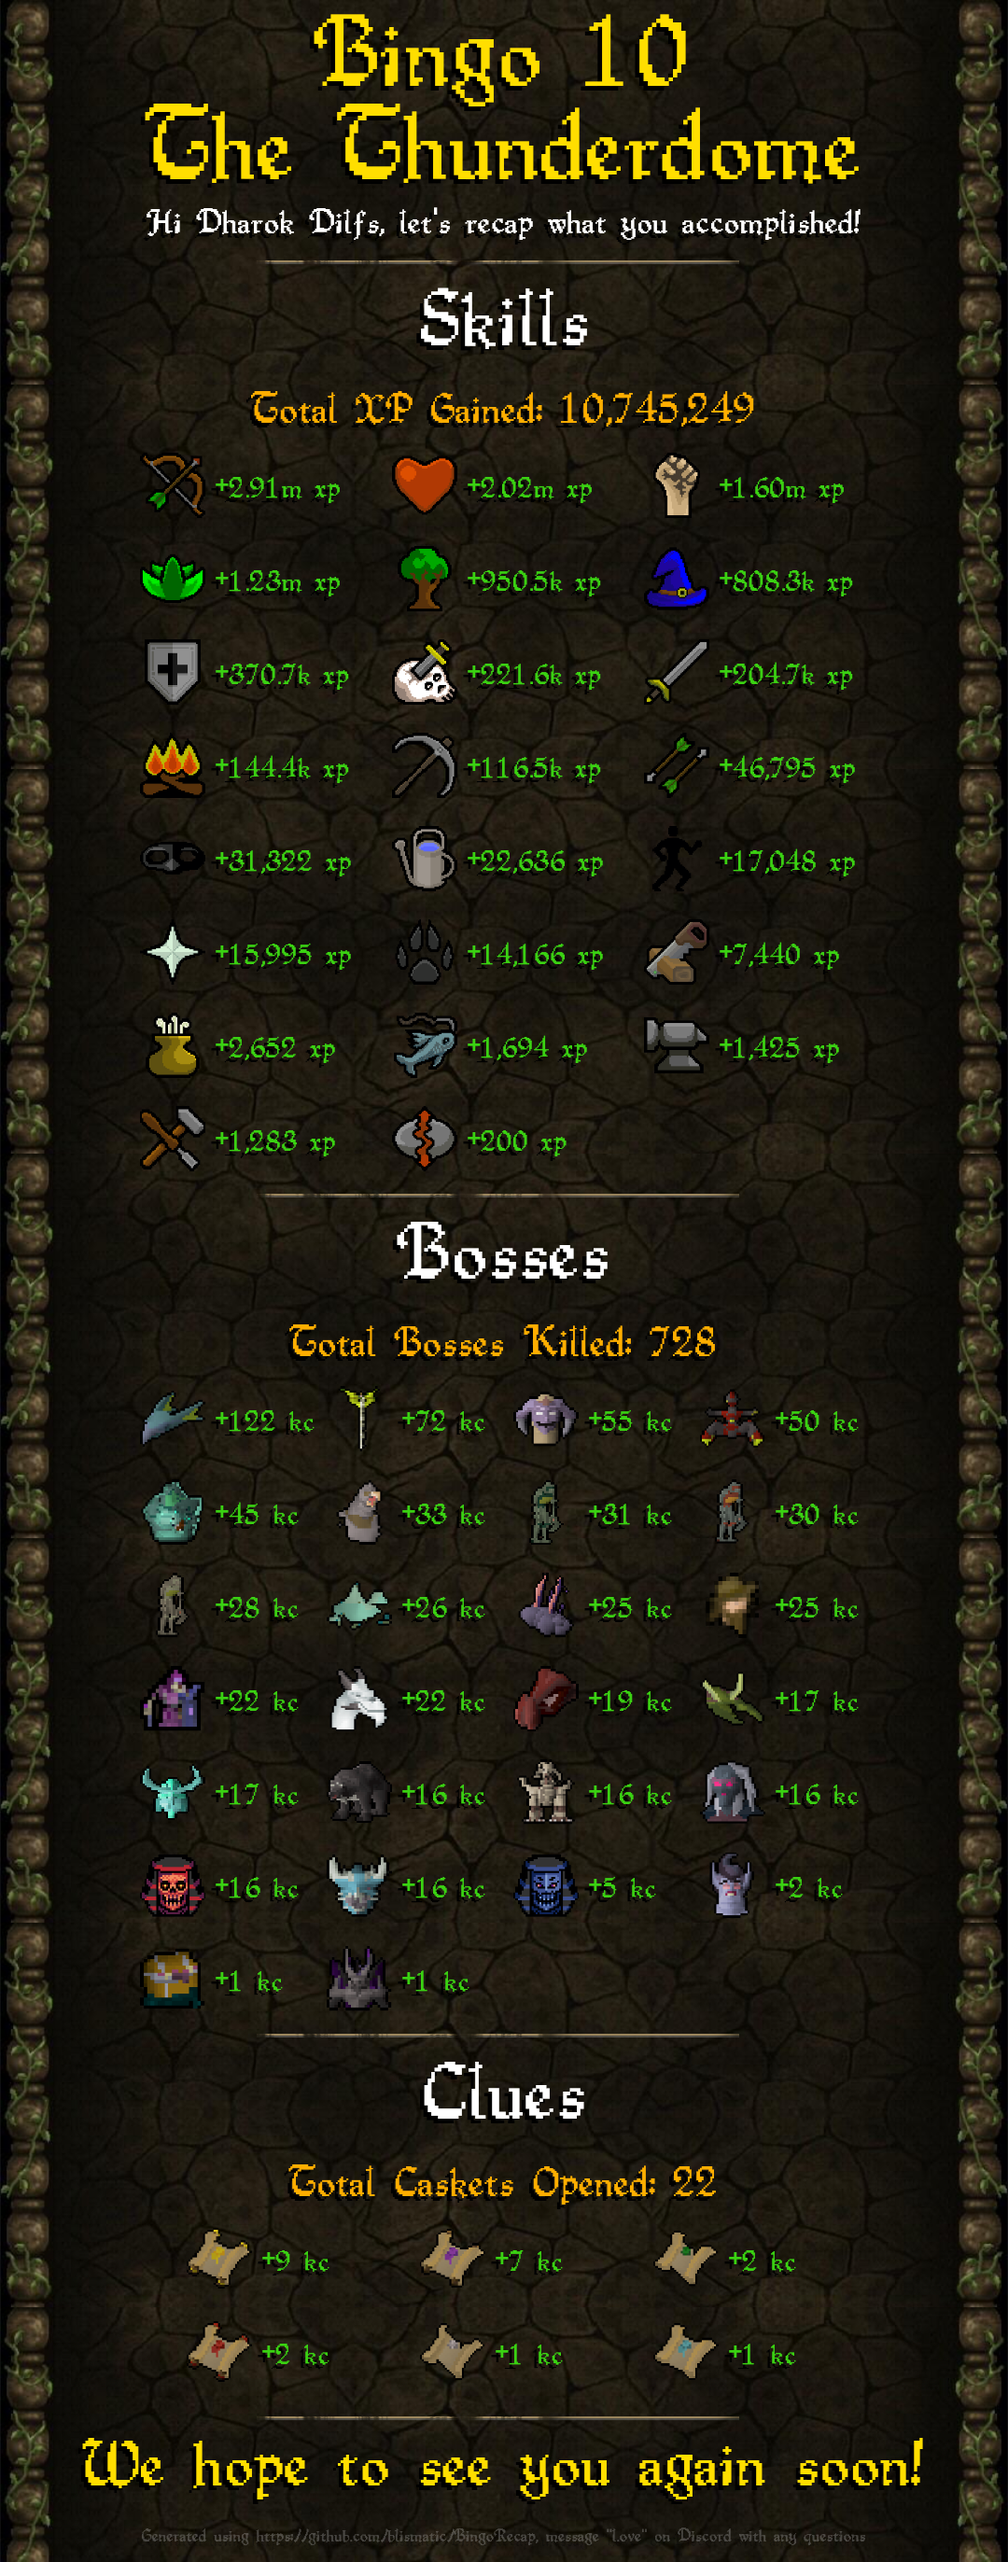
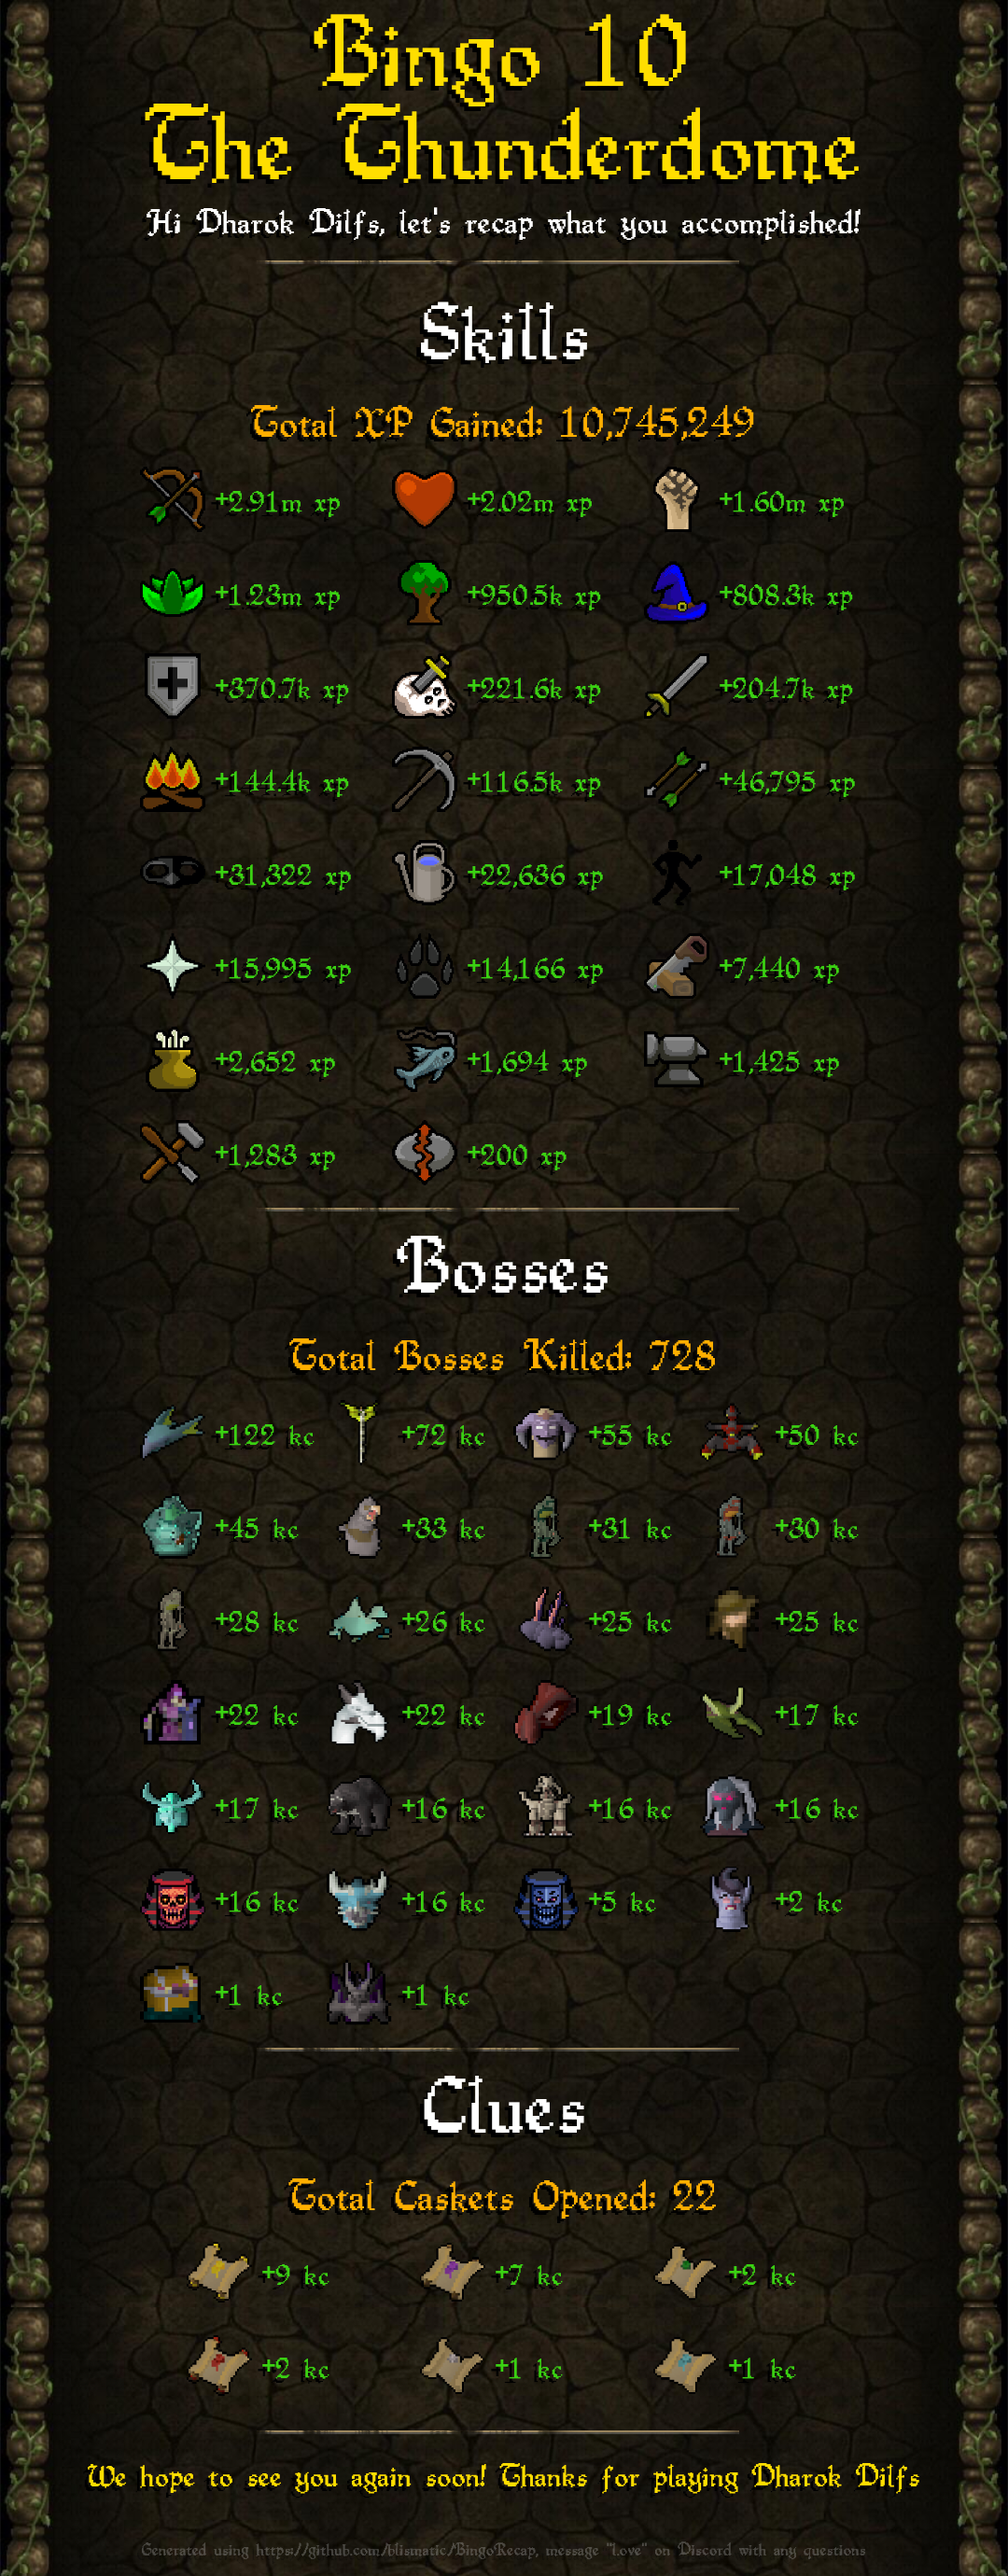
add support for json schema and cli

diff --git a/index.js b/index.js
@@ -4,6 +4,8 @@ import Canvas, { GlobalFonts } from '@napi-rs/canvas';
 import { promises, existsSync, mkdirSync, readFileSync, exists } from 'fs';
 import path, { join, dirname } from 'path'
 import { fileURLToPath } from 'url';
+import Ajv from 'ajv';
+import cliProgress from 'cli-progress';
 
 const __filename = fileURLToPath(import.meta.url);
 const __dirname = dirname(__filename);
@@ -68,7 +70,11 @@ async function createImages() {
         if (!existsSync(teamDir)) { mkdirSync(teamDir, { recursive: true }); } // create each teams folder if it does not exist.
     }
 
-    // for each player, generate their own image. Generate one image for the entire team
+    // for each player, generate their own image. Generate one image for the entire team as well.
+    const bar1 = new cliProgress.SingleBar({ stopOnComplete: true }, cliProgress.Presets.shades_classic);
+    const maxCount = config["teams"].length + config["teams"].reduce((total, team) => total + team["members"].length, 0);
+    let counter = 0;
+    bar1.start(maxCount, counter);
     for (let teamIndex = 0; teamIndex < config.teams.length; teamIndex++) {
         const team = config.teams[teamIndex];
 
@@ -78,12 +84,14 @@ async function createImages() {
             const player = team.members[playerIndex];
             const statsDelta = await compareStats(team.name, player);
             createImage(team.name, player, statsDelta);
-
             allPlayersStats.push(statsDelta);
+            bar1.update(++counter);
         }
 
         createImage(team.name, team.name, combineObjects(allPlayersStats), `./images/${team.name}/${team.name}.png`);
+        bar1.update(++counter);
     }
+    bar1.stop();
 }
 
 async function createImage(team_name, rsn, statsDelta, destination = `./images/${team_name}/${rsn}.png`) {
@@ -114,7 +122,6 @@ async function createImage(team_name, rsn, statsDelta, destination = `./images/$
     }
 
     function shrinkFont(ctx, message, baseSize, padding, alignment, font = 'RuneScape-Quill') {
-        // const exitMessage = config["exit_message"];
         ctx.textAlign = alignment;
         ctx.font = `${baseSize}px ${font}`;
 
@@ -194,26 +201,28 @@ async function createImage(team_name, rsn, statsDelta, destination = `./images/$
     context.textBaseline = 'middle';
     context.font = '143px RuneScape-Quill';
 
-    let titleOrigin = { x: context.canvas.width / 2, y: 50 };
+    let titleOrigin = { x: context.canvas.width / 2, y: yPos += 50 };
     fillTextDropShadow(context, config.title, titleOrigin.x, titleOrigin.y, Colors.Yellow);
 
-    let subtitleOrigin = { x: titleOrigin.x, y: titleOrigin.y + 100 };
+    let subtitleOrigin = { x: titleOrigin.x, y: yPos += 100 };
     fillTextDropShadow(context, config.subtitle, subtitleOrigin.x, subtitleOrigin.y, Colors.Yellow);
 
     context.font = '49px RuneScape-Quill';
-    let welcome_messageOrigin = { x: titleOrigin.x, y: subtitleOrigin.y + 85 };
-    const welcome_message = config.welcome_message.replace('<rsn>', rsn);
+    let welcome_messageOrigin = { x: titleOrigin.x, y: yPos += 85 };
+    let welcome_message = config.welcome_message.replace(/<rsn>/g, rsn);
+    welcome_message = welcome_message.replace(/<team_name>/g, team_name);
+
+    context.font = shrinkFont(context, welcome_message, 49, 100, 'center', 'RuneScape-Quill');
     fillTextDropShadow(context, welcome_message, welcome_messageOrigin.x, welcome_messageOrigin.y, Colors.White);
 
-    context.drawImage(dividerImg, (canvas.width / 2) - (dividerImg.width / 2), welcome_messageOrigin.y + 40);
+    context.drawImage(dividerImg, (canvas.width / 2) - (dividerImg.width / 2), yPos += 40);
 
     // ===== skills card =====
     // Skills title
     context.font = '116px RuneScape-Quill';
-    let skillsTitleOrigin = { x: titleOrigin.x, y: welcome_messageOrigin.y + 100 };
+    let skillsTitleOrigin = { x: titleOrigin.x, y: yPos += 75 };
     fillTextDropShadow(context, 'Skills', skillsTitleOrigin.x, skillsTitleOrigin.y, Colors.White);
 
-    yPos = skillsTitleOrigin.y + 100;
     const skills = statsDelta["skills"];
     const sortedSkills = sortSection(skills, 'xp')
     sortedSkills.shift(); // Remove the "overall" xp, since this will be calculated later
@@ -223,9 +232,9 @@ async function createImage(team_name, rsn, statsDelta, destination = `./images/$
     const totalXp = sortedSkills.reduce((sum, skill) => {
         return sum + Number(skill.xp);
     }, 0);
-    fillTextDropShadow(context, `Total XP Gained: ${totalXp.toLocaleString()}`, context.canvas.width / 2, yPos, Colors.Orange);
+    fillTextDropShadow(context, `Total XP Gained: ${totalXp.toLocaleString()}`, context.canvas.width / 2, yPos += 100, Colors.Orange);
 
-    yPos -= 50;
+    yPos -= 50; // This is necessary otherwise the following elements get pushed further down
     let count = 0;
     for (let skill of sortedSkills) {
         const xp = skill.xp;
@@ -245,7 +254,7 @@ async function createImage(team_name, rsn, statsDelta, destination = `./images/$
     }
     // await printElements(context, 'skills', sortedSkills, 'xp', 3, 150, 270, 100, 0.7);
 
-    context.drawImage(dividerImg, (canvas.width / 2) - (dividerImg.width / 2), yPos + 90);
+    context.drawImage(dividerImg, (canvas.width / 2) - (dividerImg.width / 2), yPos += 90);
 
     // ===== bosses card =====
     const bosses = statsDelta["bosses"];
@@ -254,7 +263,7 @@ async function createImage(team_name, rsn, statsDelta, destination = `./images/$
     // Bosses title
     context.textAlign = 'center';
     context.font = '116px RuneScape-Quill';
-    let bossesTitleOrigin = { x: titleOrigin.x, y: yPos += 150 };
+    let bossesTitleOrigin = { x: titleOrigin.x, y: yPos += 60 };
     fillTextDropShadow(context, 'Bosses', bossesTitleOrigin.x, bossesTitleOrigin.y, Colors.White);
 
     // Bosses subtitle
@@ -265,7 +274,7 @@ async function createImage(team_name, rsn, statsDelta, destination = `./images/$
     fillTextDropShadow(context, `Total Bosses Killed: ${totalBosses.toLocaleString()}`, context.canvas.width / 2, yPos += 100, Colors.Orange);
 
     // for each boss that has seen an increase in kill count, create a bossElement object for them
-    yPos -= 50;
+    yPos -= 50; // This is necessary otherwise the following elements get pushed further down
     count = 0;
     for (let boss of sortedBosses) {
         let xPos = 150;
@@ -285,7 +294,7 @@ async function createImage(team_name, rsn, statsDelta, destination = `./images/$
     }
     // await printElements(context, 'bosses', sortedBosses, 'kills', 4, 150, 200, 100, 0.7);
 
-    context.drawImage(dividerImg, (canvas.width / 2) - (dividerImg.width / 2), yPos + 90);
+    context.drawImage(dividerImg, (canvas.width / 2) - (dividerImg.width / 2), yPos += 90);
 
     // ===== clues card =====
     const minigames = statsDelta["minigames"];
@@ -294,7 +303,7 @@ async function createImage(team_name, rsn, statsDelta, destination = `./images/$
     // Clues title
     context.textAlign = 'center';
     context.font = '116px RuneScape-Quill';
-    let cluesTitleOrigin = { x: titleOrigin.x, y: yPos += 150 };
+    let cluesTitleOrigin = { x: titleOrigin.x, y: yPos += 60 };
     fillTextDropShadow(context, 'Clues', cluesTitleOrigin.x, cluesTitleOrigin.y, Colors.White);
 
     // Clues subtitle
@@ -305,7 +314,7 @@ async function createImage(team_name, rsn, statsDelta, destination = `./images/$
     fillTextDropShadow(context, `Total Caskets Opened: ${totalClues.toLocaleString()}`, context.canvas.width / 2, yPos += 100, Colors.Orange);
 
     // for each clue type that has seen an increase in score, create a clueElement object for them
-    yPos -= 50;
+    yPos -= 50; // This is necessary otherwise the following elements get pushed further down
     count = 0;
     for (let clueType of sortedClues) {
         let xPos = 200;
@@ -323,13 +332,16 @@ async function createImage(team_name, rsn, statsDelta, destination = `./images/$
     }
     // await printElements(context, 'clues', sortedClues, 'score', 3, 200, 250, 100, 0.7);
 
-    context.drawImage(dividerImg, (canvas.width / 2) - (dividerImg.width / 2), yPos + 100);
+    context.drawImage(dividerImg, (canvas.width / 2) - (dividerImg.width / 2), yPos += 100);
 
     // ===== exit card =====
-    const exitMessage = config["exit_message"];
+    let exitMessage = config["exit_message"];
+    exitMessage = exitMessage.replace(/<rsn>/g, rsn);
+    exitMessage = exitMessage.replace(/<team_name>/g, team_name);
+
     context.textAlign = 'center';
     context.font = shrinkFont(context, exitMessage, 100, 150, 'center', 'RuneScape-Quill');
-    let exitTitleOrigin = { x: titleOrigin.x, y: yPos += 150 };
+    let exitTitleOrigin = { x: titleOrigin.x, y: yPos += 50 };
     fillTextDropShadow(context, exitMessage, exitTitleOrigin.x, exitTitleOrigin.y, Colors.Yellow);
 
     const watermarkMessage = 'Generated using https://github.com/blismatic/BingoRecap, message "l.ove" on Discord with any questions'
@@ -352,8 +364,7 @@ async function createImage(team_name, rsn, statsDelta, destination = `./images/$
     } catch (err) {
         console.error(err);
     }
-    // await promises.writeFile(`./images/${team_name}/${rsn}.png`, pngData);
-    await promises.writeFile(destination, pngData)
+    await promises.writeFile(destination, pngData);
 }
 
 async function fetchCachedStats(teamName, playerName, beforeOrAfter) {
@@ -430,8 +441,52 @@ function combineObjects(objects) {
     return result;
 }
 
-// const statsDelta = await compareStats('Zulrah Zoomers', 'DaMan2600');
-// createImage('Zulrah Zoomers', 'DaMan2600', statsDelta, 'test1.png');
-createImages()
+function validateConfigFile() {
+    const schemaData = readFileSync('schema.json');
+    const configData = readFileSync('config.json');
 
-// statsSetup(true);
+    const schema = JSON.parse(schemaData);
+    const config = JSON.parse(configData);
+
+    const ajv = new Ajv();
+    const validate = ajv.compile(schema);
+
+    const isValid = validate(config);
+
+    if (!isValid) {
+        console.error('Invalid config file:', ajv.errorsText(validate.errors));
+        process.exit(1);
+    }
+}
+
+// ----------------------------------------------------
+// Validate the config file
+validateConfigFile()
+
+// Make sure only one argument was provided
+if (process.argv.length != 3) {
+    console.error('Sorry, expected exactly one argument (\'before\', \'after\', or \'images\')');
+    process.exit(1);
+}
+
+// Make sure the one argument provided was either 'before', 'after', or 'images'
+if (!['before', 'after', 'images'].includes(process.argv[2])) {
+    console.error('Sorry, argument must be either \'before\', \'after\', or \'images\'');
+    process.exit(1);
+}
+
+// Run specific commands based on which argument was provided
+if (process.argv[2] == 'before') {
+    console.log('Grabbing everyone\'s stats...');
+    statsSetup(0);
+} else if (process.argv[2] == 'after') {
+    console.log('Grabbing everyone\'s stats again...');
+    statsSetup(1);
+    console.log('Generating images...');
+    createImages();
+} else if (process.argv[2] == 'images') {
+    console.log('Generating images...');
+    createImages();
+} else {
+    console.error('Something went wrong...');
+}

diff --git a/README.md b/README.md
@@ -1,25 +1,33 @@
-## Setup
+## Prerequisites
 
-Open `./config.json` and configure your event. See `./schema.json` for more info. If there are no teams in your event, put everyone as members of a single team, with whatever team name you want
+Before anything else, run this command to make sure you have all the required dependencies
+
+```bash
+npm install
+```
+
+## Setting up the config file
+
+Open `./config.json` with your favorite text editor and configure your event. See `./schema.json` for more info. If there are no teams in your event, put everyone as members of a single team, with whatever team name you want
 
 ## How to use
 
 Run this command once before the event to save everyones hiscore data
 
-```javascript
-statsSetup(0);
+```bash
+node . before
 ```
 
-After the event is over, run this command to save a new copy of everyones hiscore data
+After the event is over, run this command to save a new copy of everyones hiscore data and generate images
 
-```javascript
-statsSetup(1);
-```
-
-When you want to generate your images, run
-
-```javascript
-createImages();
+```bash
+node . after
 ```
 
 Your pictures will be generated and saved in the `./images/` folder, separated by team.
+
+If you want to generate the images but not re-query the hiscores api, run
+
+```bash
+node . images
+```
